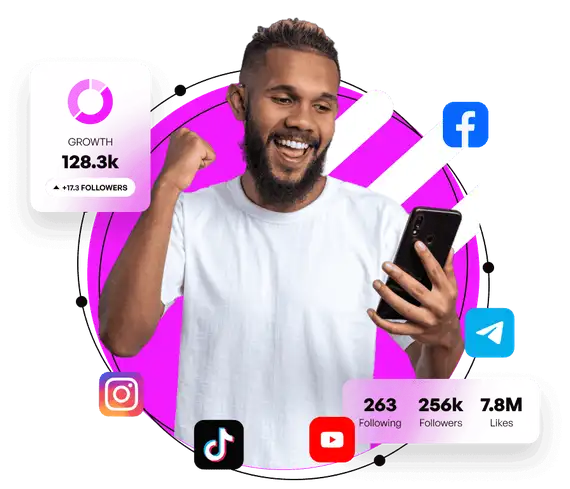
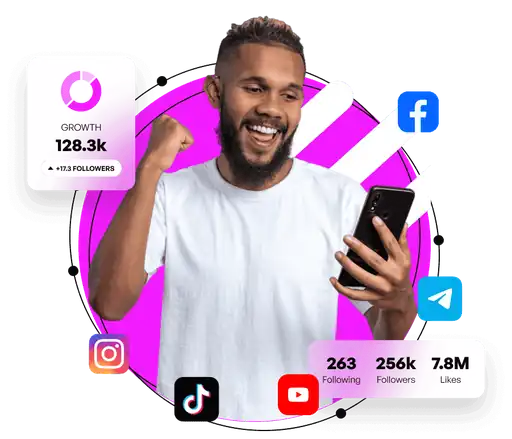
perf: compress hero.webp to 41.7KB (-12.8KB reduction) and update intrinsic resolution to 512x439

diff --git a/index.html b/index.html
@@ -120,10 +120,10 @@ License: You must have a valid license from official store to legally use the th
 		    <div class="flex flex-wrap flex-row -mx-4 justify-center">
 		      <!-- content -->
 		      <div class="flex-shrink max-w-full px-4 sm:px-12 lg:px-18 w-full sm:w-9/12 lg:w-1/2 self-center">
-		        <div class="relative overflow-hidden border-b border-gray-100" style="aspect-ratio: 570 / 489; width: 100%;">
-		          <picture style="aspect-ratio: 570 / 489; display: block; width: 100%;">
+		        <div class="relative overflow-hidden border-b border-gray-100" style="aspect-ratio: 512 / 439; width: 100%;">
+		          <picture style="aspect-ratio: 512 / 439; display: block; width: 100%;">
 		            <source srcset="src/img/dummy/hero.webp" type="image/webp">
-		            <img class="max-w-full h-auto mx-auto" src="src/img/dummy/hero.png" alt="GhBooster SMM Panel" width="570" height="489" style="aspect-ratio: 570 / 489; width: 100%; height: auto;" fetchpriority="high" loading="eager" decoding="async">
+		            <img class="max-w-full h-auto mx-auto" src="src/img/dummy/hero.png" alt="GhBooster SMM Panel" width="512" height="439" style="aspect-ratio: 512 / 439; width: 100%; height: auto;" fetchpriority="high" loading="eager" decoding="async">
 		          </picture>
 		        </div>
 		      </div><!-- end content -->
